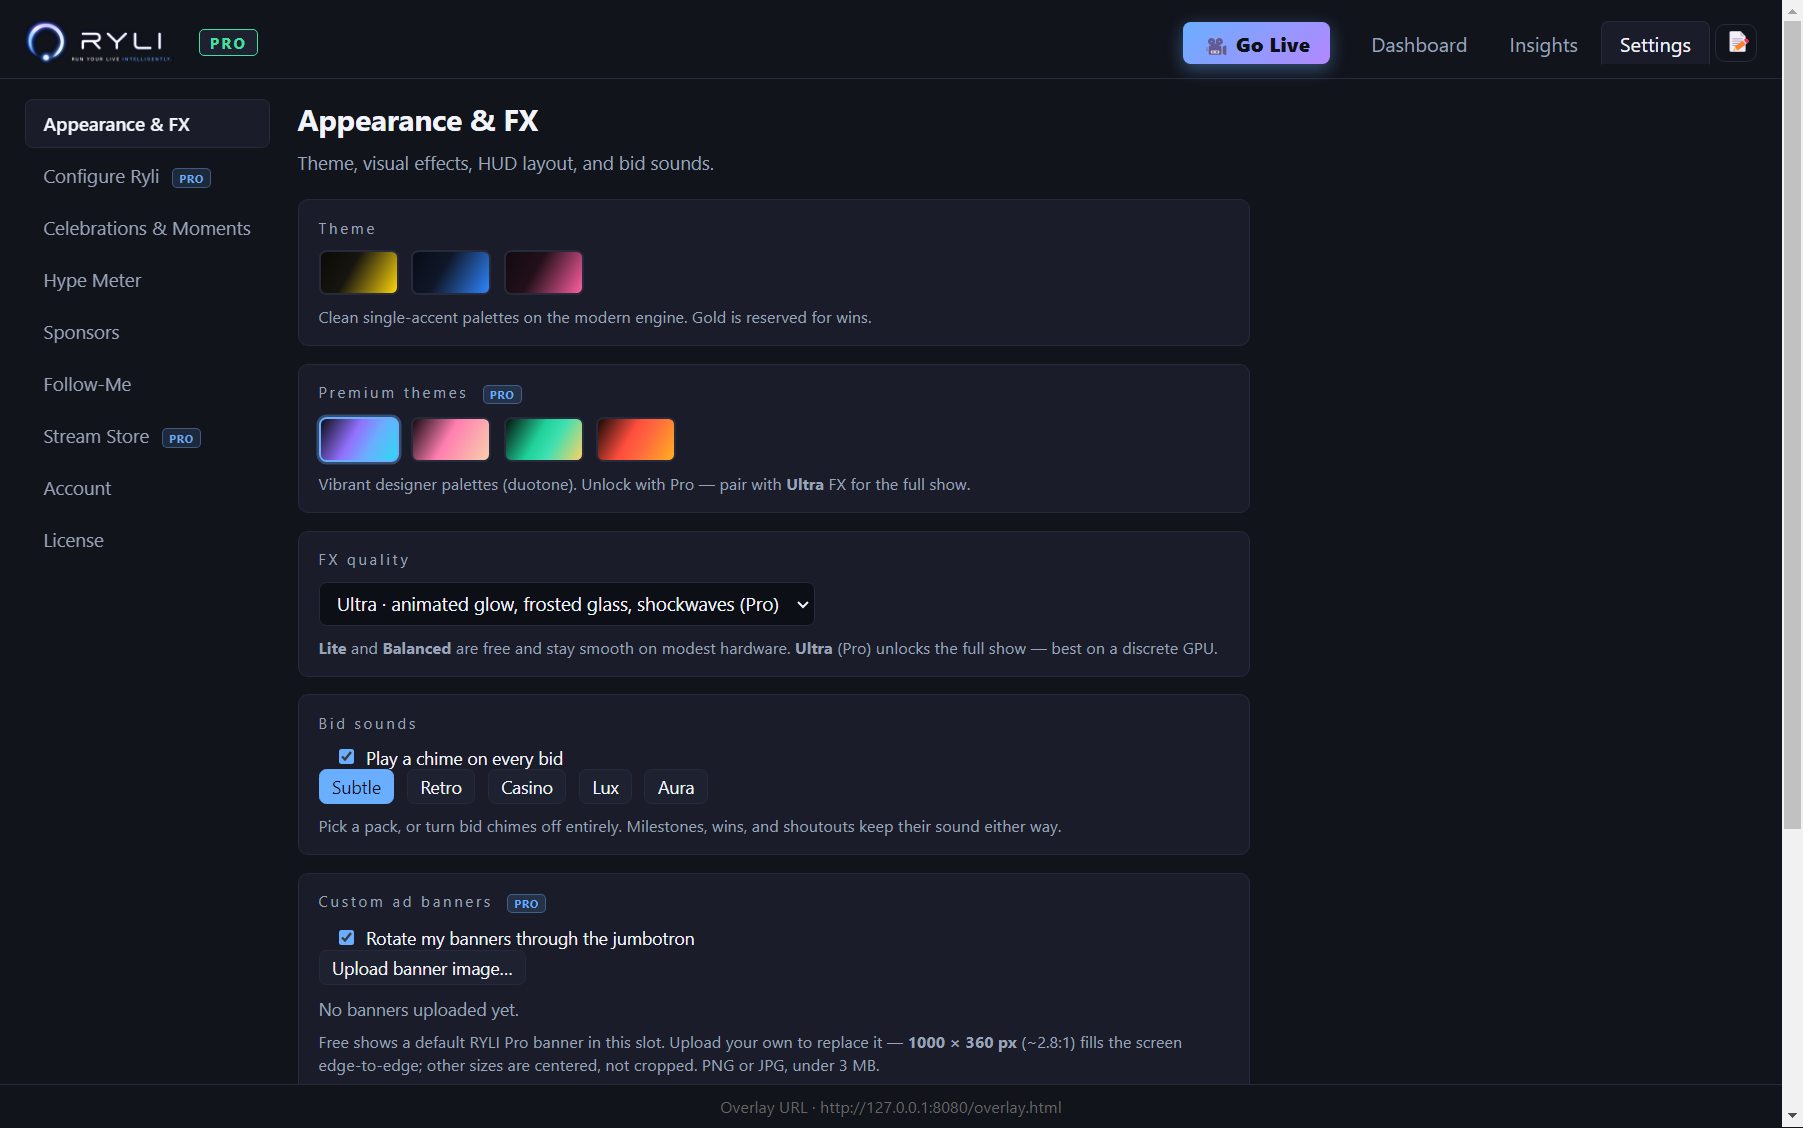
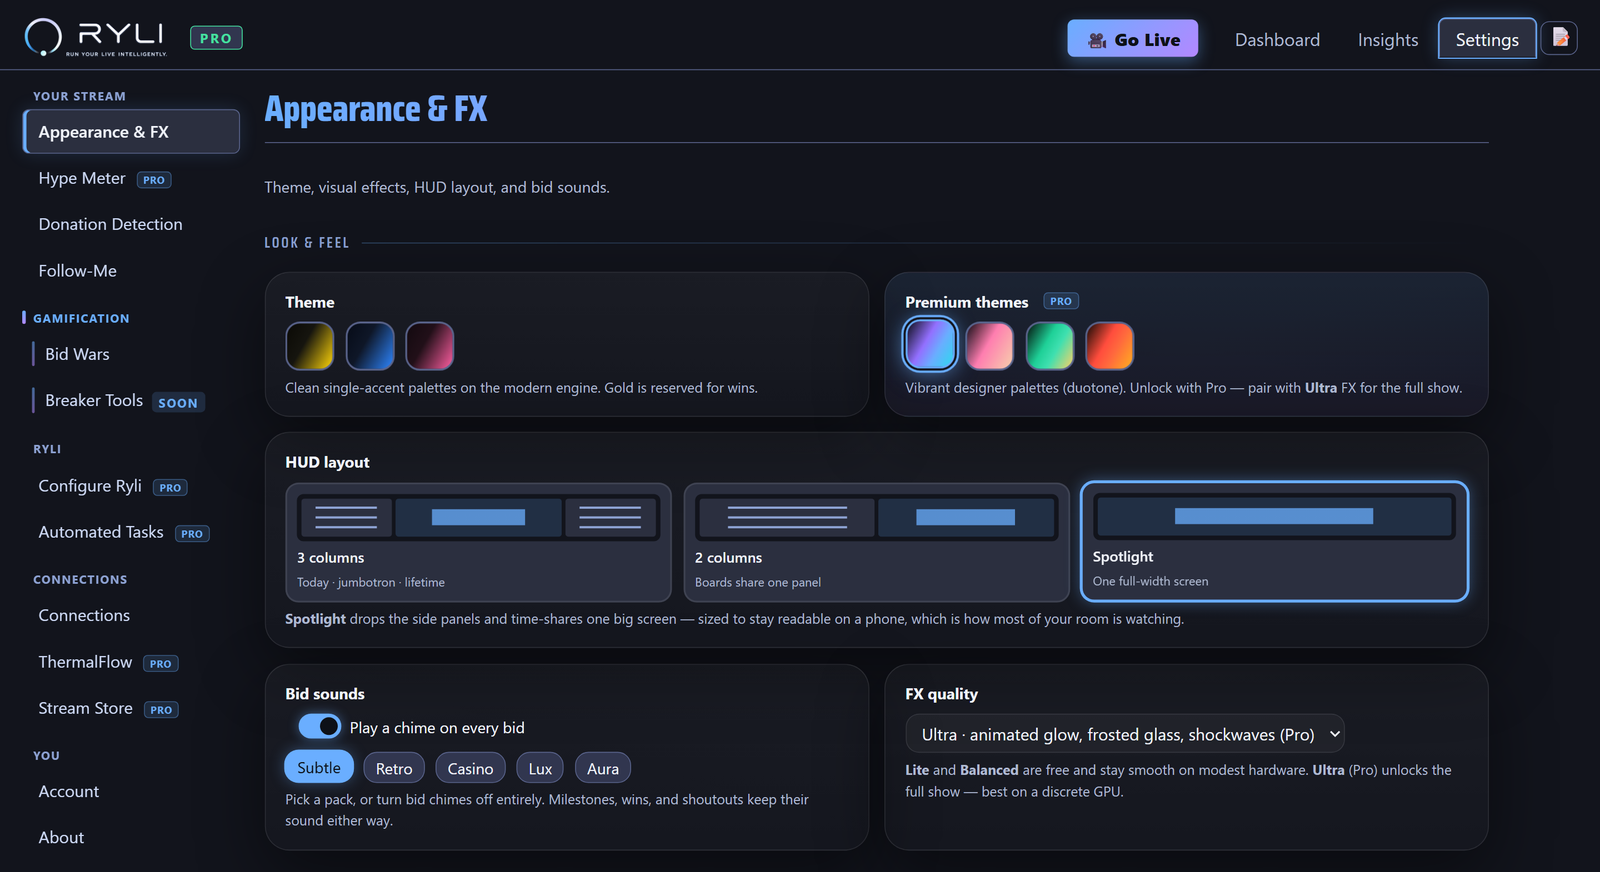
Restore the Hype Meter headline, and reshoot three stale screenshots
The Hype Meter h2 and description were rewritten in the previous commit and
the originals were better; they are back verbatim. The section head no longer
duplicates that headline.

Insights, Appearance & FX and Stream Store were all shot in mid-July, before
the UI redesign shipped in v1.0.29. Recaptured against the real app at 2x,
driven over CDP with seeded show history so the graph is genuinely filled
rather than an empty state.

Insights was 1783x2328 — portrait, which is what stretched the page. It is now
the top of the page only, down to the trend chart: 1600x831. The image renders
411px shorter and the page is 643px shorter overall.

diff --git a/index.html b/index.html
@@ -165,8 +165,8 @@
     <div class="container">
       <div class="section-head reveal">
         <span class="eyebrow-badge"><span class="dot"></span>Live Control</span>
-        <h2>Whatnot is watching your room. <span class="grad-text">Give it something to see.</span></h2>
-        <p>Whatnot's own engineering team has published that user actions — including chats and reactions — are counted in real time and fed to the service that ranks which livestreams get promoted. In their words, they want to &ldquo;promote livestreams to our users when the most exciting things are happening at that moment.&rdquo;</p>
+        <h2>Built to be used <span class="grad-text">mid-show.</span></h2>
+        <p>Two tools you run without stopping your stream — one to make the room erupt on cue, one to control everything without ever leaving your Whatnot tab.</p>
       </div>
 
       <div class="showcase-toggle reveal">
@@ -178,8 +178,9 @@
         <div class="feature reveal">
           <div class="feature__copy">
             <div class="feature__eyebrow"><span class="icon-badge">🔥</span>Hype Meter <span class="tag pro">PRO</span></div>
-            <h2>Make the moment happen <span class="grad-text">on cue.</span></h2>
-            <p class="desc">A quiet room is invisible to the algorithm. The Hype Meter is how you turn one on — press a key and a bar, a countdown and a live headcount go up on your stream, and chat has a reason to erupt right now instead of eventually.</p>
+            <h2>Whatnot is watching your room. <span class="grad-text">Give it something to see.</span></h2>
+            <p class="desc">Whatnot's own engineering team has published that user actions — <strong>including chats and reactions</strong> — are counted in real time and fed to the service that ranks which livestreams get promoted. In their words, they want to &ldquo;promote livestreams to our users when the most exciting things are happening at that moment.&rdquo;</p>
+            <p class="desc"><strong>The Hype Meter is how you make that moment happen on cue.</strong></p>
             <ul class="checklist">
               <li>Press one key — a bar and a countdown appear on your stream</li>
               <li>Chat fills it by spamming emojis. The higher it climbs, the bigger the giveaway</li>
